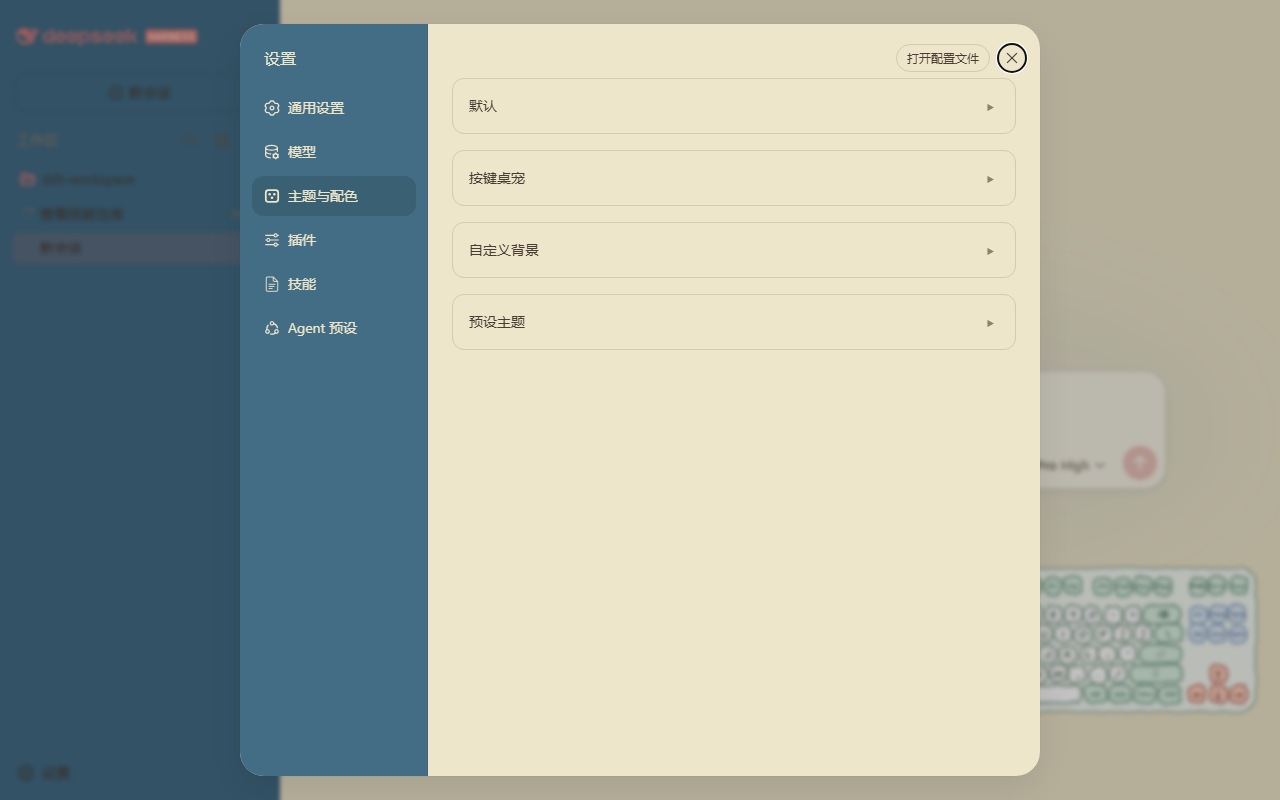
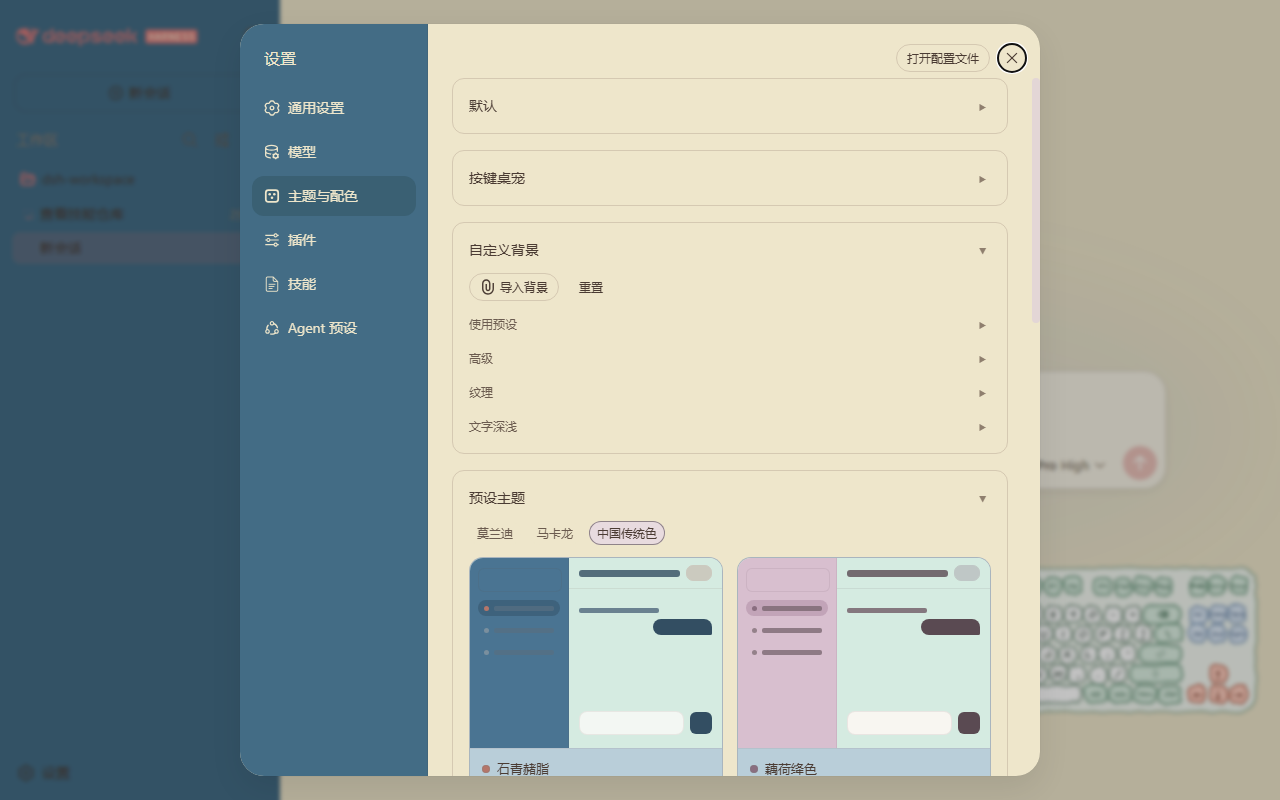
docs(theme-kit): lime macaron theme, expanded preset/background/texture panels

diff --git a/README.en.md b/README.en.md
@@ -32,9 +32,9 @@ English | [中文](README.md)
 
 ### Settings
 
-| Preset theme settings | Custom background settings |
-|---|---|
-| ![Preset theme settings](docs/settings-preset.png) | ![Custom background settings](docs/settings-background.png) |
+| Preset theme settings | Custom background settings | Texture settings |
+|---|---|---|
+| ![Preset theme settings](docs/settings-preset.png) | ![Custom background settings](docs/settings-background.png) | ![Texture settings](docs/settings-texture.png) |
 
 ## Quick start
 

diff --git a/README.md b/README.md
@@ -32,9 +32,9 @@
 
 ### 设置
 
-| 预设主题设置 | 自定义背景设置 |
-|---|---|
-| ![预设主题设置](docs/settings-preset.png) | ![自定义背景设置](docs/settings-background.png) |
+| 预设主题设置 | 自定义背景设置 | 纹理设置 |
+|---|---|---|
+| ![预设主题设置](docs/settings-preset.png) | ![自定义背景设置](docs/settings-background.png) | ![纹理设置](docs/settings-texture.png) |
 
 ## 快速开始
 
